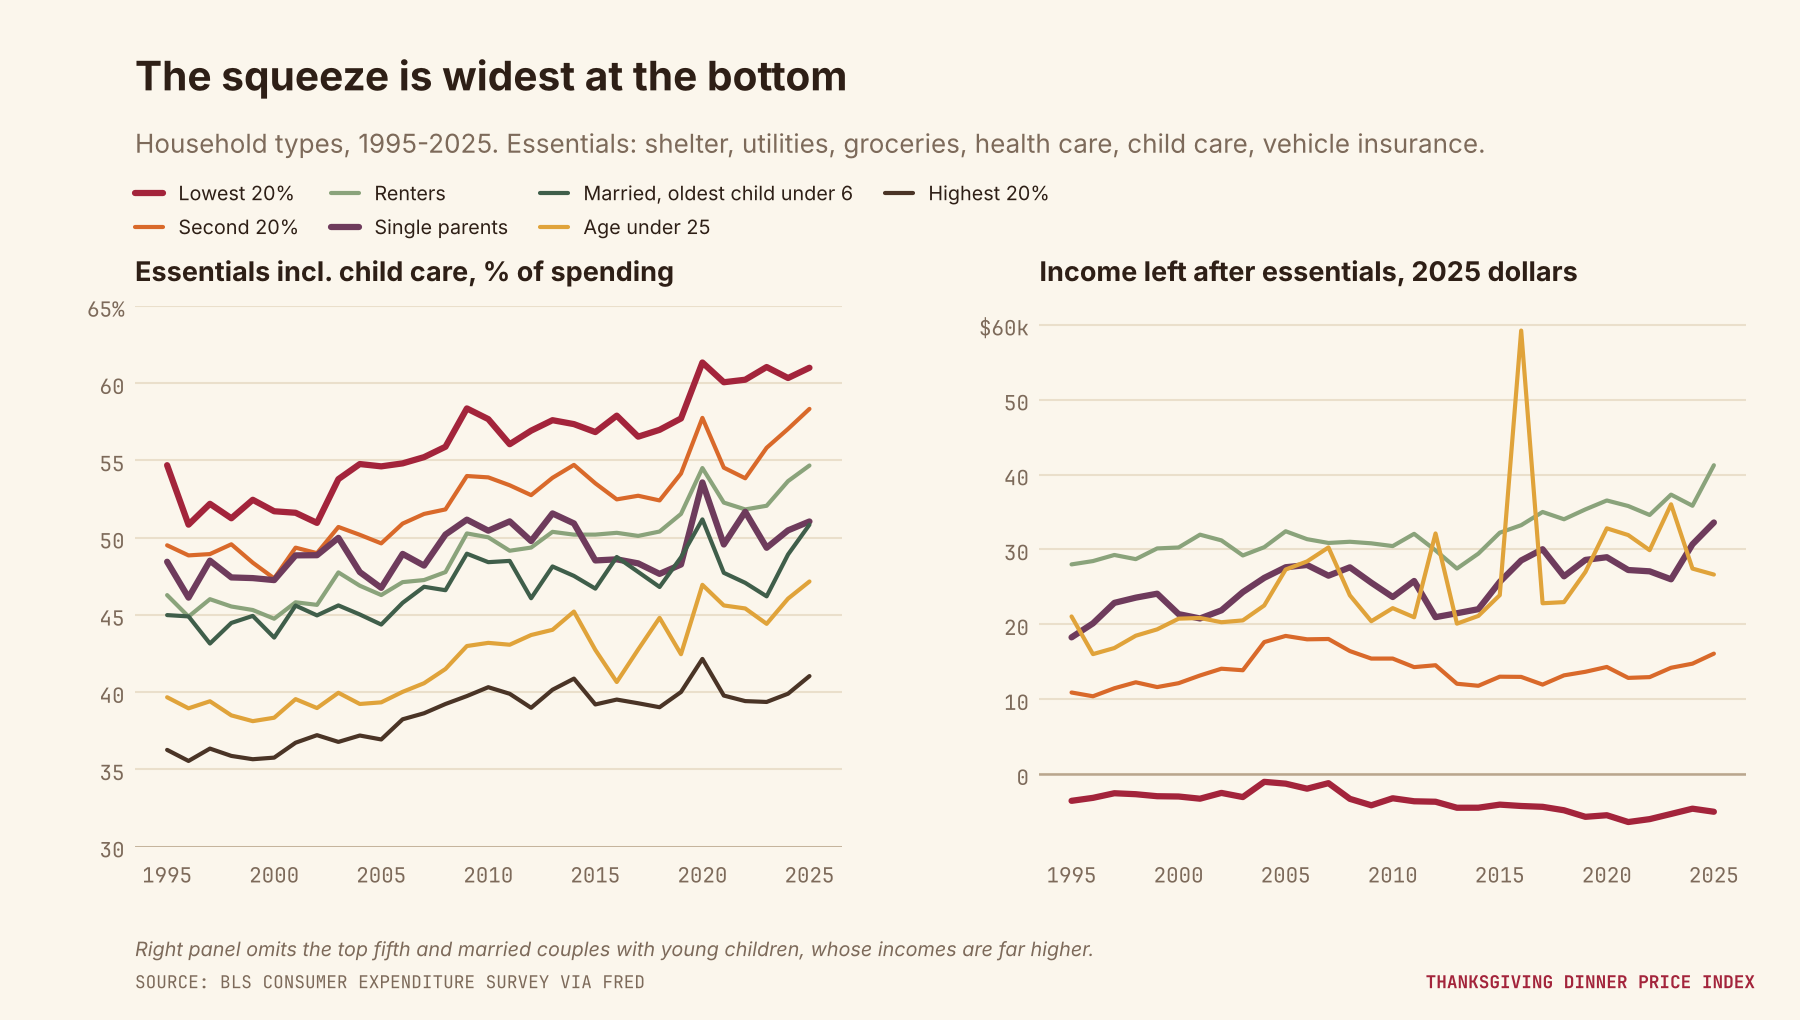
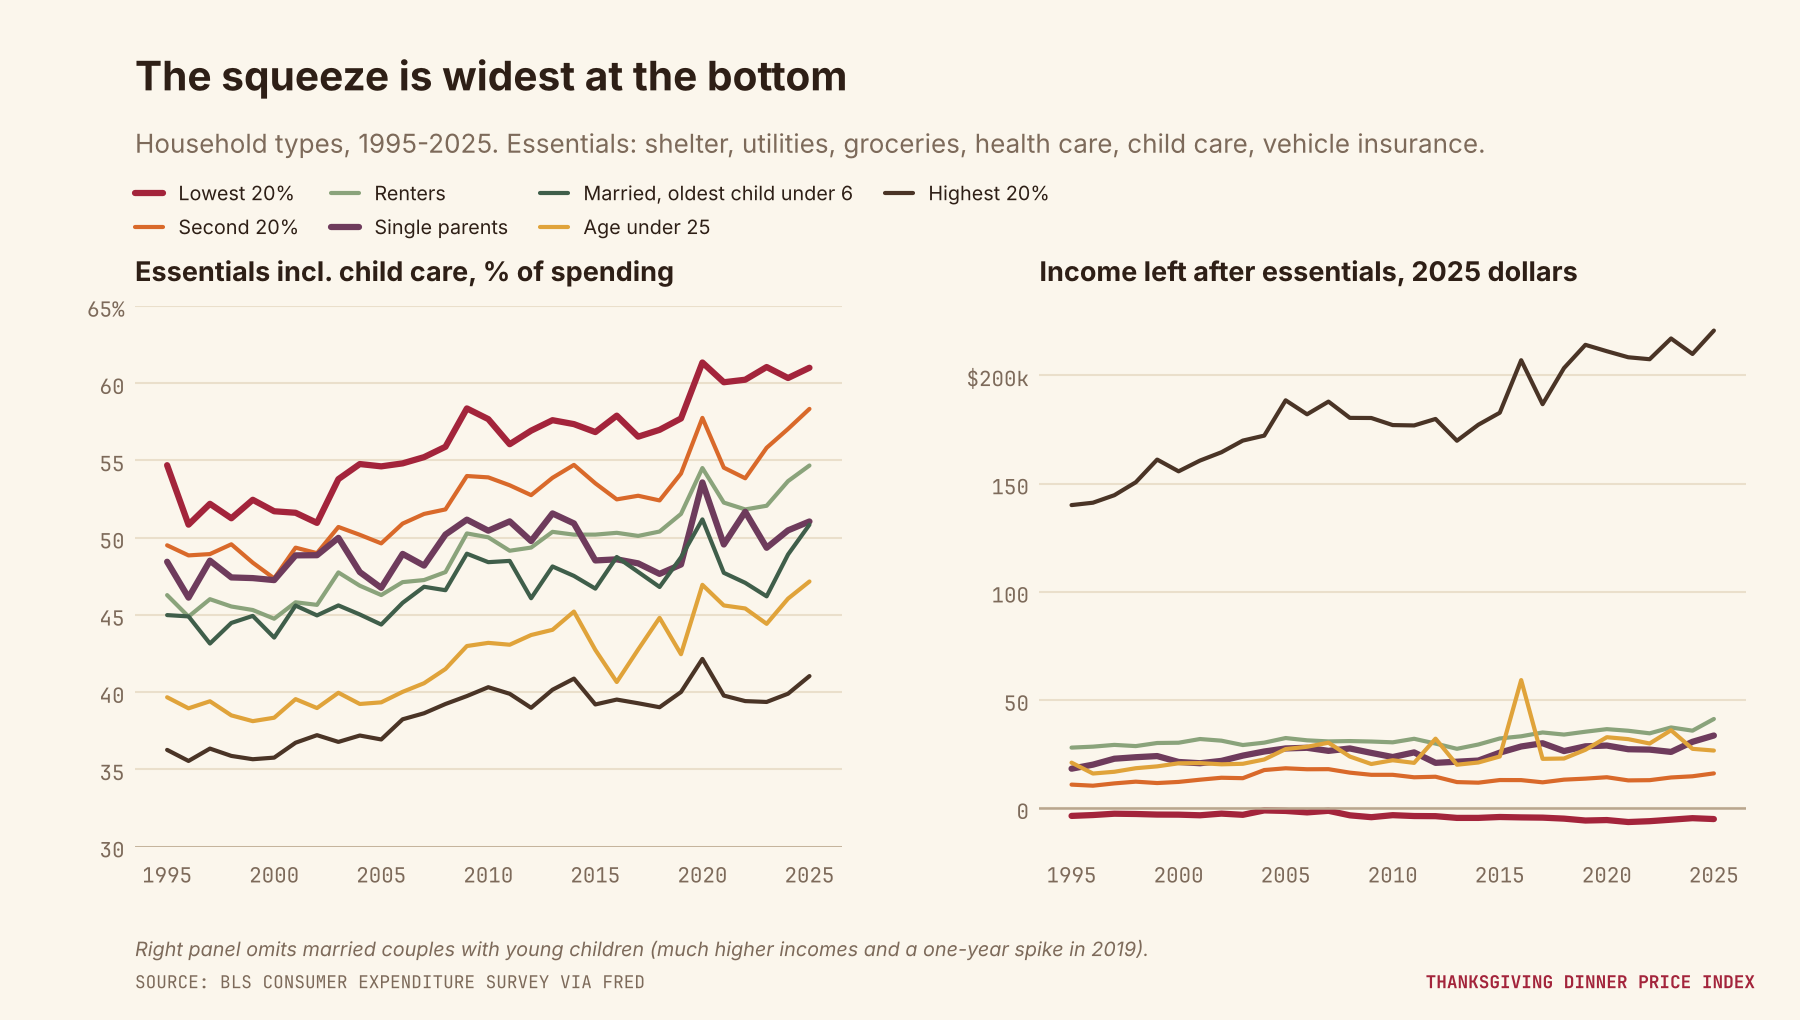
Include the top fifth in the income-left-after-essentials panel
Claude-Session: https://claude.ai/code/session_015UrztArHpAPPRd1ooHHwA1

diff --git a/deep_dive.py b/deep_dive.py
@@ -196,7 +196,7 @@ for name, c in show.items():
     g = panel[panel.group == name]
     lw = 3 if name in ("Income: lowest 20%", "Single parents") else 2
     axes[0].plot(g.year, g.broad_pct_spending, color=c, lw=lw, label=name.replace("Income: lowest", "Lowest").replace("Income: second", "Second").replace("Income: highest", "Highest"))
-    if name not in ("Income: highest 20%", "Married, oldest child under 6"):
+    if name != "Married, oldest child under 6":
         axes[1].plot(g.year, g.left_after_broad_income_real2025 / 1000, color=c, lw=lw)
 axes[0].set_title("Essentials incl. child care, % of spending")
 axes[1].set_title("Income left after essentials, 2025 dollars")
@@ -209,7 +209,7 @@ fig.subplots_adjust(top=0.7, right=0.97)
 cs.finish(fig, "The squeeze is widest at the bottom",
           "Household types, 1995-2025. Essentials: shelter, utilities, groceries, health care, child care, vehicle insurance.",
           "BLS Consumer Expenditure Survey via FRED", OUT / "6_who_is_squeezed.png",
-          note="Right panel omits the top fifth and married couples with young children, whose incomes are far higher.")
+          note="Right panel omits married couples with young children (much higher incomes and a one-year spike in 2019).")
 
 w = wage.dropna(subset=["hours_at_federal_min"])
 fig, axes = cs.figure(1, 2, width=12, height=6.2)
